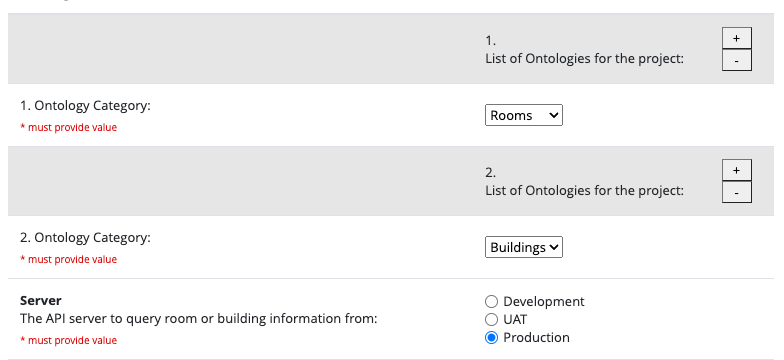
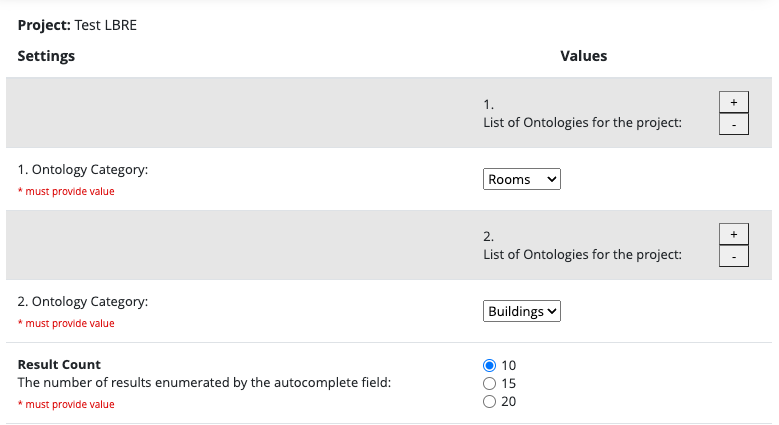
added fix for permission issue in redcap core

diff --git a/scripts/override.js b/scripts/override.js
@@ -1,5 +1,6 @@
 
 $(document).ready(() => {
+    console.log("hi")
     OverrideHelper.truncateRoomID();
     OverrideHelper.verifyActionTags();
 })
@@ -44,6 +45,7 @@ const OverrideHelper = {
 
     verifyActionTags: () => {
         //Injected via php before page load
+
         if(actionTagTable){
             for(const key of Object.keys(actionTagTable)){
                 let roomPageElement = $(`#${key}-autosuggest`);

diff --git a/LBRE.php b/LBRE.php
@@ -69,6 +69,7 @@ class LBRE extends AbstractExternalModule implements \OntologyProvider
     {
 
         try {
+            $this->disableUserBasedSettingPermissions();
             $settings = $this->getSystemSettings();
             global $Proj;
 
@@ -79,10 +80,10 @@ class LBRE extends AbstractExternalModule implements \OntologyProvider
             $client->setEncCredentials($settings['auth-login']['system_value'], $settings['auth-password']['system_value']);
             $this->setClient($client);
 
-            $tokenJson = $client->generateBearerToken();
+            $tokenJson = $client->generateBearerToken($settings['auth-url']['system_value']);
 
-            $this->updateSystemSetting('bearer-token', $tokenJson['access_token']);
-            $this->updateSystemSetting('bearer-expiration', strval(time() + $tokenJson['expires_in']));
+            $this->setSystemSetting('bearer-token', $tokenJson['access_token']);
+            $this->setSystemSetting('bearer-expiration', strval(time() + $tokenJson['expires_in']));
 
         } catch (\Exception $e) {
             \REDCap::logEvent("Error: $e");
@@ -90,23 +91,24 @@ class LBRE extends AbstractExternalModule implements \OntologyProvider
         }
     }
 
-    public function updateSystemSetting($setting, $val){
-        $q = $this->query("SELECT external_module_id FROM redcap_external_modules WHERE directory_prefix = ?", [$this->PREFIX]);
-        $row = db_fetch_array($q);
-        $external_module_id = $row[0];
 
-        //Check if system setting row exists, if not, create the row instead of update
-        $check_exists =  db_fetch_array($this->query("SELECT 1 FROM redcap_external_module_settings WHERE project_id is NULL AND `key` = ? AND external_module_id = ?", [$setting, $external_module_id]))[0];
-        if(!isset($check_exists)){ //Setting is not defined or empty, create
-            $res = $this->query("INSERT INTO redcap_external_module_settings (external_module_id, project_id, `key`, type, value) VALUES ($external_module_id, NULL, '$setting', 'string', '$val')", []);
-        } else {
-            $res = $this->query("UPDATE redcap_external_module_settings SET `value` = ? WHERE project_id is NULL AND `key` = ? AND external_module_id = ? ", [$val, $setting, $external_module_id]);
-        }
 
-        if(!$res)
-            throw new \Exception("Unable to update redcap_external_modules_settings table manually");
-
-    }
+//    public function updateSystemSetting($setting, $val){
+//        $q = $this->query("SELECT external_module_id FROM redcap_external_modules WHERE directory_prefix = ?", [$this->PREFIX]);
+//        $row = db_fetch_array($q);
+//        $external_module_id = $row[0];
+//
+//        //Check if system setting row exists, if not, create the row instead of update
+//        $check_exists =  db_fetch_array($this->query("SELECT 1 FROM redcap_external_module_settings WHERE project_id is NULL AND `key` = ? AND external_module_id = ?", [$setting, $external_module_id]))[0];
+//        if(!isset($check_exists)){ //Setting is not defined or empty, create
+//            $res = $this->query("INSERT INTO redcap_external_module_settings (external_module_id, project_id, `key`, type, value) VALUES ($external_module_id, NULL, '$setting', 'string', '$val')", []);
+//        } else {
+//            $res = $this->query("UPDATE redcap_external_module_settings SET `value` = ? WHERE project_id is NULL AND `key` = ? AND external_module_id = ? ", [$val, $setting, $external_module_id]);
+//        }
+//
+//        if(!$res)
+//            throw new \Exception("Unable to update redcap_external_modules_settings table manually");
+//    }
 
     /**
      * Creates a Key, Value array of action tags and their reference fields to inject upon page load
@@ -136,12 +138,9 @@ class LBRE extends AbstractExternalModule implements \OntologyProvider
     public function injectJavascript($bulk = []){
         try {
 
-            if(!empty($bulk)) { //If data, encode and inject
-                $encoded = json_encode($bulk);
-                print "<script type='text/javascript'>var actionTagTable = $encoded; </script>";;
-            }
-
+            $encoded = json_encode($bulk);
             $jsFilePath = $this->getUrl('scripts/override.js');
+            print "<script type='text/javascript'>var actionTagTable = $encoded; </script>";;
             print "<script type='module' src=$jsFilePath></script>";
 
         } catch(\Exception $e) {
@@ -190,7 +189,6 @@ class LBRE extends AbstractExternalModule implements \OntologyProvider
         } catch (\Exception $e) {
             \REDCap::logEvent("Error: $e");
             $this->emError("Error: $e");
-            $this->exitAfterHook();
         }
     }
 
@@ -207,21 +205,21 @@ class LBRE extends AbstractExternalModule implements \OntologyProvider
         $pSettings = $this->getProjectSettings();
         $sSettings = $this->getSystemSettings();
 
-        switch ($pSettings['server']) {
-            case 'development':
-                $url = $sSettings['dev-url']['value'];
-                break;
-            case 'production':
-                $url = $sSettings['prod-url']['value'];
-                break;
-            case 'uat':
-                $url = $sSettings['uat-url']['value'];
-                break;
-            default:
-                $url = $sSettings['dev-url']['value'];
-                break;
-        }
-
+//        switch ($pSettings['server']) {
+//            case 'development':
+//                $url = $sSettings['dev-url']['value'];
+//                break;
+//            case 'production':
+//                $url = $sSettings['prod-url']['value'];
+//                break;
+//            case 'uat':
+//                $url = $sSettings['uat-url']['value'];
+//                break;
+//            default:
+//                $url = $sSettings['dev-url']['value'];
+//                break;
+//        }
+        $url = $sSettings['query-url']['system_value'];
 //        $url = match ($pSettings['server']) {
 //            'production' => $pSettings['prod-url']['value'],
 //            'uat' => $pSettings['uat-url']['value'],
@@ -324,7 +322,7 @@ class LBRE extends AbstractExternalModule implements \OntologyProvider
         } else {
             \REDCap::logEvent("Error: Category specified by search was not set correctly");
             $this->emError('Category specified by search was not set correctly');
-            $this->exitAfterHook();
+//            $this->exitAfterHook();
         }
 
         $results = array();

diff --git a/models/Client.php b/models/Client.php
@@ -18,13 +18,13 @@ class Client extends \GuzzleHttp\Client
 
     }
 
-    public function generateBearerToken(){
+    public function generateBearerToken($url){
         $options = [
             'headers' => ['Authorization' => 'Basic ' . $this->getEncCredentials()]
         ];
 
         $this->getEm()->emDebug($options);
-        return $this->createRequest('get','https://aswsuat.stanford.edu/api/oauth/jwttoken', $options);
+        return $this->createRequest('get',$url, $options);
 
     }
 

diff --git a/README.md b/README.md
@@ -16,10 +16,10 @@ Here is a list of required system settings (also seen in config.json):
 
 ```
 {
-    "server": "development" || "uat" || "production",
     "auth-login": <Username>
     "auth-password": <Password>
-    "dev-url": <DEV API URL>
+    "auth-url": <JWT authentication url>
+    "query-url: <API query url>
 }
 ```
 
@@ -28,8 +28,6 @@ Here is a list of required system settings (also seen in config.json):
 ![project_setup](./assets/project_setup.png)
 
 Both Rooms and Buildings must be selected as ontology categories from the repeatable dropdown list.
-
-Server designation will allow you to cycle between API endpoints at will.
 
 After enabling these settings in External Modules, buildings and rooms can then be selected from instrument configuration.
 
